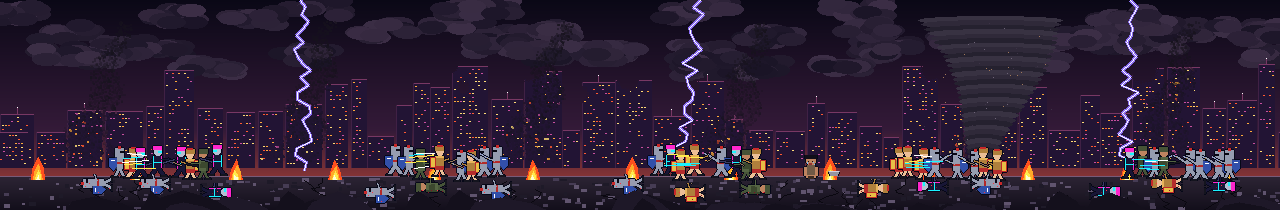
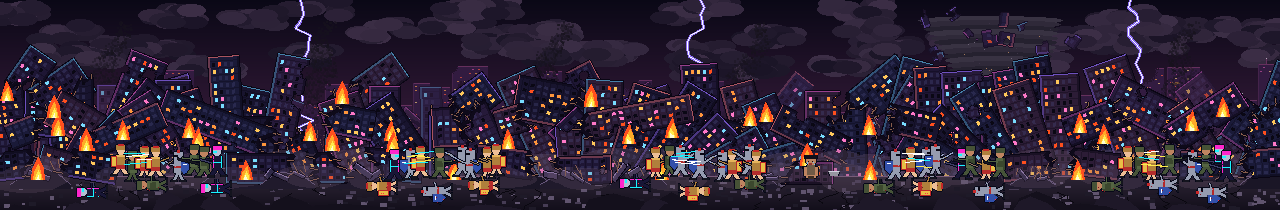
Cảnh 8: thành phố đổ nát hỗn loạn hơn (nhà nghiêng, gãy đôi, đổ nằm ngang, vắt chéo, dãy domino, mảnh nhà bị lốc cuốn)
Claude-Session: https://claude.ai/code/session_01NVxbTTZSpscgszuBWkwgVy

diff --git a/Tools/PixelArt/gen_opening.py b/Tools/PixelArt/gen_opening.py
@@ -37,7 +37,7 @@ import random
 import sys
 
 import numpy as np
-from PIL import Image
+from PIL import Image, ImageDraw
 
 import gen_art as G
 from gen_art import (Cv, lerp, save_array, OUT, NAVY, NAVY2, NAVYL, CYAN, CYAN_D, MAG, MAG_D,
@@ -1188,7 +1188,7 @@ def fallen(kind):
     im = f.im.rotate(90, expand=True).crop((0, 8, 32, 32))
     cv = Cv(im.width, im.height)
     cv.im = im
-    rng = noise_rng(hash(kind) & 0xffff)
+    rng = noise_rng(sum(ord(ch) * (i + 3) for i, ch in enumerate(kind)))   # ổn định giữa các lần chạy (hash() của Python thì không)
     for _ in range(7):
         x, y = rng.randint(2, 28), rng.randint(8, 22)
         if cv.im.getpixel((x, y))[3] > 0:
@@ -1196,9 +1196,239 @@ def fallen(kind):
     return cv.im
 
 
+# ---------------------------------------------------------------- thành phố đổ nát (cảnh 8)
+# Nhà chọc trời nghiêng ngả, gãy đôi, đổ nằm ngang, dựa vào nhau như quân domino — mọi tòa đều là một ảnh riêng
+# (thân + cửa sổ + viền neon) rồi xoay / bẻ gãy / dán chồng lên nhau.
+TOWER_BODY = [(30, 22, 52), (38, 26, 58), (26, 26, 56), (44, 28, 54), (24, 20, 46)]
+TOWER_EDGE = [(150, 64, 140), (70, 130, 170), (170, 84, 96), (110, 80, 190)]
+WIN_LIT = [(255, 200, 90), (255, 150, 60), (120, 220, 255), (255, 120, 200)]
+REBAR = (136, 94, 76)
+
+
+def tower_raw(w, h, seed):
+    """Tòa nhà nhìn thẳng w x h (đỉnh y=0, chân y=h-1): thân, viền neon, các tầng, cửa sổ sáng / tối / cháy."""
+    rng = noise_rng(seed)
+    body = rng.choice(TOWER_BODY)
+    edge = rng.choice(TOWER_EDGE)
+    c = Cv(w, h)
+    c.rect(0, 0, w - 1, h - 1, body)
+    c.rect(0, 0, 1, h - 1, lerp(body, edge, 0.55))                  # cạnh sáng bên trái
+    c.rect(w - 2, 0, w - 1, h - 1, lerp(body, INK, 0.5))            # cạnh tối bên phải
+    c.rect(0, 0, w - 1, 0, edge)
+    for y in range(6, h - 3, 7):
+        c.rect(2, y - 2, w - 3, y - 2, lerp(body, INK, 0.35))       # đường sàn
+        for x in range(4, w - 5, 6):
+            r = rng.random()
+            if r < 0.24:
+                col = rng.choice(WIN_LIT)
+            elif r < 0.30:
+                col = FIRE_B
+            elif r < 0.55:
+                col = (10, 8, 20)
+            else:
+                col = lerp(body, (70, 70, 120), 0.35)
+            c.rect(x, y, x + 2, y + 3, col)
+    for _ in range(rng.choice([0, 1, 1, 2, 3])):                    # vết nổ: khoét thủng thân nhà, lộ lỗ hổng răng cưa
+        erase_blob(c, rng.choice([rng.randint(0, 3), rng.randint(w - 4, w), rng.randint(0, w)]), rng.randint(0, int(h * 0.7)), rng.randint(4, max(5, min(9, w // 3))), rng)
+    return c.im
+
+
+def pad_outline(im, col=(10, 6, 20)):
+    """Thêm viền tối 1 px quanh ảnh (tách các tòa nhà chồng lên nhau)."""
+    cv = Cv(im.width + 2, im.height + 2)
+    cv.im.paste(im, (1, 1))
+    cv.outline(col)
+    return cv.im
+
+
+def split_tower(im, rng, y0, slope):
+    """Bẻ gãy tòa nhà theo đường răng cưa bắt đầu ở độ cao y0, dốc 'slope'. Trả về (phần dưới còn đứng, phần trên bị bẻ, đã cắt sát)."""
+    w, h = im.size
+    pts = []
+    x, y = 0, y0
+    while x < w:
+        pts.append((x, min(h - 4, max(4, y))))
+        x += rng.randint(2, 6)
+        y += slope * 4 + rng.randint(-6, 6)
+    pts.append((w, min(h - 4, max(4, y))))
+    up = Image.new("L", (w, h), 0)
+    ImageDraw.Draw(up).polygon([(0, -1)] + pts + [(w, -1)], fill=255)
+    top = Image.new("RGBA", (w, h), (0, 0, 0, 0))
+    top.paste(im, (0, 0), up)
+    arr = np.array(im)
+    arr[np.array(up) > 0] = 0
+    bottom = Image.fromarray(arr, "RGBA")
+    cb, ct = Cv(w, h), Cv(w, h)
+    cb.im, ct.im = bottom, top
+    cb.d, ct.d = ImageDraw.Draw(bottom), ImageDraw.Draw(top)
+    for i in range(len(pts) - 1):                                   # mặt gãy: bê tông tối + thép chìa ra
+        cb.line(pts[i][0], pts[i][1], pts[i + 1][0], pts[i + 1][1], (14, 10, 26), 3)
+        ct.line(pts[i][0], pts[i][1], pts[i + 1][0], pts[i + 1][1], (14, 10, 26), 3)
+    for (px_, py_) in pts[1:-1:2]:
+        cb.line(px_, py_, px_ + rng.randint(-2, 2), py_ - rng.randint(3, 9), REBAR, 1)
+        ct.line(px_, py_, px_ + rng.randint(-2, 2), py_ + rng.randint(3, 8), REBAR, 1)
+    box = top.getbbox()
+    return cb.im, (top.crop(box) if box else top)
+
+
+def rot_paste_base(c, im, bx, by, ang):
+    """Xoay ảnh quanh điểm giữa đáy rồi dán sao cho điểm đó rơi vào (bx, by). ang > 0 = ngả sang TRÁI."""
+    r = im.rotate(ang, resample=Image.NEAREST, expand=True)
+    th = math.radians(ang)
+    h = im.height
+    paste(c, r, round(bx - (h / 2.0) * math.sin(th) - r.width / 2.0), round(by - (h / 2.0) * math.cos(th) - r.height / 2.0))
+
+
+def rot_paste_center(c, im, cx, cy, ang):
+    r = im.rotate(ang, resample=Image.NEAREST, expand=True)
+    paste(c, r, round(cx - r.width / 2.0), round(cy - r.height / 2.0))
+
+
+def shade(im, toward, k):
+    """Pha màu ảnh về phía 'toward' với tỉ lệ k (khói bụi, xa hơn) — giữ alpha."""
+    a = np.array(im).astype(np.float32)
+    for i in range(3):
+        a[..., i] = a[..., i] * (1 - k) + toward[i] * k
+    return Image.fromarray(a.astype(np.uint8), "RGBA")
+
+
+def dust_puffs(c, items, rng, col=(120, 96, 120), alpha=70):
+    """Bụi mờ: items = [(cx, cy, rx, ry)] — vài elip bán trong suốt chồng nhau."""
+    ov = Image.new("RGBA", (c.w, c.h), (0, 0, 0, 0))
+    d = ImageDraw.Draw(ov)
+    for (cx, cy, rx, ry) in items:
+        for _ in range(5):
+            ox, oy = rng.uniform(-rx * 0.5, rx * 0.5), rng.uniform(-ry * 0.4, ry * 0.4)
+            sx, sy = rx * rng.uniform(0.5, 0.9), ry * rng.uniform(0.5, 0.9)
+            d.ellipse([int(cx + ox - sx), int(cy + oy - sy), int(cx + ox + sx), int(cy + oy + sy)], fill=(col[0], col[1], col[2], alpha))
+    c.im.alpha_composite(ov)
+
+
+def place_tower(c, bx, by, w, h, ang, rng, mode, anchors, haze=0.0):
+    """Dựng một tòa nhà có chân ở (bx, by) ngả ang độ. mode 'broken' = gãy ngang giữa thân, nửa trên đổ nghiêng quanh điểm gãy."""
+    raw = tower_raw(w, h, rng.randint(0, 10 ** 6))
+    if mode == "broken":
+        cut = rng.uniform(0.3, 0.62) * h
+        bottom, top = split_tower(raw, rng, cut, rng.uniform(-0.5, 0.5))
+        bottom, top = pad_outline(bottom), pad_outline(top)
+        if haze:
+            bottom, top = shade(bottom, (70, 40, 84), haze), shade(top, (70, 40, 84), haze)
+        rot_paste_base(c, bottom, bx, by, ang)
+        bh = h - cut
+        th = math.radians(ang)
+        hx, hy = bx - bh * math.sin(th), by - bh * math.cos(th)    # bản lề: chỗ gãy
+        d = 1 if rng.random() < 0.5 else -1
+        a1 = ang + d * rng.uniform(32, 88)
+        rot_paste_base(c, top, hx - d * rng.uniform(0, 7), hy + rng.uniform(-1, 7), a1)
+        anchors.append((hx, hy))
+    else:
+        im = pad_outline(raw)
+        if haze:
+            im = shade(im, (70, 40, 84), haze)
+        rot_paste_base(c, im, bx, by, ang)
+
+
+def wreck_layer(c, rng, near, anchors):
+    """Một lớp nhà đổ nát: đứng thẳng / nghiêng / nghiêng nặng / gãy đôi, tựa vào nhau (chân đặt dưới mặt sàn để sàn che đi)."""
+    d = rng.choice([-1, 1])
+    x = -12
+    while x < WAR_W + 20:
+        w = rng.randint(28, 46) if near else rng.randint(20, 34)
+        h = rng.randint(86, 132) if near else rng.randint(56, 100)
+        mode = rng.choice(["stand", "lean", "lean", "heavy", "broken", "broken", "bl"])
+        if rng.random() < 0.55:
+            d = -d
+        if mode == "stand":
+            ang, m = rng.uniform(-4, 4), "plain"
+        elif mode == "lean":
+            ang, m = d * rng.uniform(9, 26), "plain"
+        elif mode == "heavy":
+            ang, m, h = d * rng.uniform(32, 56), "plain", int(h * 0.8)
+        elif mode == "broken":
+            ang, m = rng.uniform(-8, 8), "broken"
+        else:                                                        # bl: vừa nghiêng vừa gãy
+            ang, m = d * rng.uniform(14, 30), "broken"
+        by = FLOOR_Y + (4 if near else 2)
+        place_tower(c, x, by, w, h, ang, rng, m, anchors, haze=0.0 if near else 0.42)
+        x += rng.randint(20, 36) if near else rng.randint(24, 40)
+
+
+def domino_run(c, x0, d, rng, anchors, n=6):
+    """Dãy nhà đổ như quân domino (đổ về phía d: +1 = trái): mỗi tòa nghiêng hơn tòa trước, tòa cuối gần nằm ngang."""
+    for i in range(n):
+        w, h = rng.randint(30, 40), rng.randint(96, 124) - i * 6
+        place_tower(c, x0 - d * i * 24, FLOOR_Y + 5, w, h, d * (4 + i * 14), rng, "plain", anchors)
+
+
+def bridge_tower(c, cx, cy, length, thick, d, rng):
+    """Tòa nhà đổ vắt ngang như cây cầu, gần như nằm ngang, gác lên các tòa khác (ở trên đầu đám đánh nhau); đỉnh bị bẻ rơi lệch bên cạnh."""
+    raw = tower_raw(thick, length, rng.randint(0, 10 ** 6))
+    bottom, top = split_tower(raw, rng, length * rng.uniform(0.62, 0.8), rng.uniform(-0.4, 0.4))
+    rot_paste_center(c, pad_outline(bottom), cx, cy, d * rng.uniform(68, 82))
+    rot_paste_center(c, pad_outline(top), cx - d * length * 0.5 - 6 * d, cy + rng.randint(8, 20), d * rng.uniform(52, 100))
+
+
+def lying_tower(c, cx, length, thick, d, rng, anchors):
+    """Tòa nhà đổ nằm ngang trên mặt đất, gãy thành 2-3 khúc lệch nhau."""
+    raw = tower_raw(thick, length, rng.randint(0, 10 ** 6))
+    pieces = []
+    rest = raw
+    cuts = rng.choice([1, 2])
+    for k in range(cuts):
+        keep, top = split_tower(rest, rng, rest.height * 0.5, rng.uniform(-0.5, 0.5))
+        pieces.append(top)                                          # phần đỉnh
+        box = keep.getbbox()
+        rest = keep.crop(box) if box else keep
+    pieces.append(rest)                                             # phần chân
+    # đỉnh nằm phía d: xếp từ đỉnh (xa) -> chân (gần)
+    x = cx - length * 0.5 * d
+    for i, p in enumerate(pieces):
+        r = pad_outline(p).rotate(d * 90 + rng.uniform(-10, 10), resample=Image.NEAREST, expand=True)
+        gap = rng.randint(2, 7)
+        left = x if d > 0 else x - r.width
+        top_y = FLOOR_Y + rng.randint(3, 11) - r.height
+        paste(c, r, round(left), round(top_y))
+        anchors.append((left + r.width * 0.5, top_y + 4))
+        x = x + (r.width + gap) * d
+
+
+def rubble_heap(c, x, w, h, rng):
+    """Đống đổ nát: gò gạch + tấm sàn dựng xiên + thép chìa."""
+    base = FLOOR_Y + 8
+    pts = [(x, base + 4)]
+    n = max(4, w // 7)
+    for k in range(n + 1):
+        t = k / float(n)
+        pts.append((x + w * t, base - h * math.sin(math.pi * t) * rng.uniform(0.6, 1.0)))
+    pts.append((x + w, base + 4))
+    c.poly(pts, rng.choice([(26, 22, 38), (32, 26, 44)]))
+    for k in range(1, len(pts) - 2):
+        c.line(pts[k][0], pts[k][1], pts[k + 1][0], pts[k + 1][1], (100, 84, 120), 1)
+    for _ in range(rng.randint(2, 4)):                              # tấm sàn / mảnh tường dựng xiên
+        sw, sh = rng.randint(10, 22), rng.randint(3, 6)
+        slab = Cv(sw, sh)
+        slab.rect(0, 0, sw - 1, sh - 1, rng.choice([(58, 50, 82), (46, 40, 70), (70, 56, 90)]))
+        slab.rect(0, 0, sw - 1, 0, (140, 120, 170))
+        slab = pad_outline(slab.im)
+        rot_paste_center(c, slab, x + rng.uniform(0.15, 0.85) * w, base - h * rng.uniform(0.35, 0.9), rng.uniform(-60, 60))
+    for _ in range(rng.randint(3, 6)):
+        px_ = x + rng.uniform(0.1, 0.9) * w
+        py_ = base - h * rng.uniform(0.4, 0.95)
+        c.line(px_, py_, px_ + rng.randint(-5, 5), py_ - rng.randint(4, 11), REBAR, 1)
+
+
+def flying_chunks(c, rng, cx, spread, n):
+    """Mảnh nhà bị cuốn lên trời (quanh lốc xoáy)."""
+    for _ in range(n):
+        w, h = rng.randint(8, 18), rng.randint(6, 14)
+        raw = pad_outline(tower_raw(w, h, rng.randint(0, 10 ** 6)))
+        rot_paste_center(c, shade(raw, (60, 40, 80), 0.3), cx + rng.uniform(-spread, spread), rng.uniform(14, 135), rng.uniform(0, 360))
+
+
 def war_bg():
     c = Cv(WAR_W, FH)
     rng = noise_rng(81)
+    anchors = []
     sky_gradient(c, FH, (10, 8, 22), (52, 26, 56), (190, 70, 50), 130)
     # mây bão: các mảng xám tối
     for _ in range(46):
@@ -1206,8 +1436,11 @@ def war_bg():
         for k in range(14):
             ox, oy = rng.randint(-26, 26), rng.randint(-7, 7)
             c.ell(cx_ + ox - 14, cy_ + oy - 6, cx_ + ox + 14, cy_ + oy + 6, lerp((26, 20, 38), (60, 46, 70), rng.random()))
-    # thành phố cháy phía xa
-    city_far(c, 168, 101, True)
+    # thành phố phía xa (mờ hơn, nhà gãy + cháy) — lớp nhà đổ nát ở gần che lên trên
+    far = Cv(WAR_W, FH)
+    city_far(far, 168, 101, True)
+    far.im = shade(far.im, (74, 38, 84), 0.4)
+    c.im.alpha_composite(far.im)
     smoke_columns(c, [120, 330, 560, 760, 1010, 1190], 24, 4)
     # lốc xoáy khổng lồ ở x ~ 990: các elip chồng nhỏ dần xuống mặt đất, kèm mảnh vỡ
     for k in range(34):
@@ -1220,16 +1453,37 @@ def war_bg():
         a = rng.uniform(0, math.pi * 2)
         r = rng.uniform(16, 70)
         c.px(990 + math.cos(a) * r, 60 + rng.uniform(-40, 90), rng.choice([(110, 100, 120), (60, 50, 70), (160, 120, 90)]))
+    flying_chunks(c, rng, 990, 85, 22)                                          # mảnh nhà bị lốc cuốn lên
     # sét đánh xuống đất (tĩnh) ở vài chỗ
     for x0 in (300, 700, 1130):
         pts = bolt_points(x0, 0, x0 + rng.randint(-24, 24), 170, rng, 10)
         draw_bolt(c, pts, WHITE, (140, 110, 240), 1)
+    # ---- nhà cửa đổ nát: lớp xa (mờ) -> lớp gần -> dãy domino -> nhà vắt ngang như cầu
+    wreck_layer(c, rng, False, anchors)
+    wreck_layer(c, rng, True, anchors)
+    domino_run(c, 232, 1, rng, anchors)                                          # đổ về bên trái
+    domino_run(c, 598, -1, rng, anchors)                                         # đổ về bên phải
+    domino_run(c, 1066, 1, rng, anchors, 5)
+    for (bx_, by_, ln, th, dd) in ((300, 112, 150, 30, 1), (560, 106, 132, 28, -1), (880, 116, 120, 28, 1), (1130, 108, 136, 30, -1), (60, 118, 110, 26, -1)):
+        bridge_tower(c, bx_, by_, ln, th, dd, rng)
+    dust_puffs(c, [(x_, FLOOR_Y - 8, 46, 16) for x_ in range(20, WAR_W, 64)], rng)
     rubble_floor(c, 105)
-    # lửa trên mặt đất (tĩnh)
+    # đống gạch + nhà đổ nằm ngang trên mặt đất (xen vào chỗ trống giữa các cụm giao tranh, phía sau lính)
+    for (hx, hw, hh) in ((200, 70, 20), (330, 60, 16), (480, 70, 22), (610, 56, 18), (740, 36, 14), (985, 70, 22), (1100, 60, 18), (1240, 64, 20), (10, 60, 18)):
+        rubble_heap(c, hx, hw, hh, rng)
+    for (lx, ln, th, dd) in ((290, 132, 30, 1), (562, 104, 28, -1), (1046, 92, 26, 1), (24, 96, 28, 1), (1256, 96, 28, -1), (800, 70, 22, -1)):
+        lying_tower(c, lx, ln, th, dd, rng, anchors)
+    for (hx, hw, hh) in ((260, 54, 14), (540, 50, 12), (1010, 44, 12)):
+        rubble_heap(c, hx, hw, hh, rng)
+    dust_puffs(c, [(x_, FLOOR_Y + 2, 40, 12) for x_ in range(40, WAR_W, 90)], rng, alpha=56)
+    # lửa trên mặt đất + trên chỗ nhà gãy
     fires = [Image.open(os.path.join(G.OUT_DIR, "op_fire_%d.png" % k)).convert("RGBA") for k in range(3)] if os.path.exists(os.path.join(G.OUT_DIR, "op_fire_0.png")) else []
-    for x in range(30, WAR_W - 30, rng.randint(70, 110)):
+    for x in range(30, WAR_W - 30, rng.randint(150, 210)):
         if fires:
             paste(c, fires[rng.randint(0, 2)], x, FLOOR_Y - 20)
+    for (ax_, ay_) in anchors:
+        if fires and rng.random() < 0.38:
+            paste(c, fires[rng.randint(0, 2)], int(ax_) - 8, int(ay_) - 22)
     # các cụm giao tranh: trái hướng phải ↔ phải hướng trái, xen kẽ thời đại
     kinds = ["rome", "knight", "soldier", "neon"]
     clusters = [150, 430, 690, 930, 1160]
